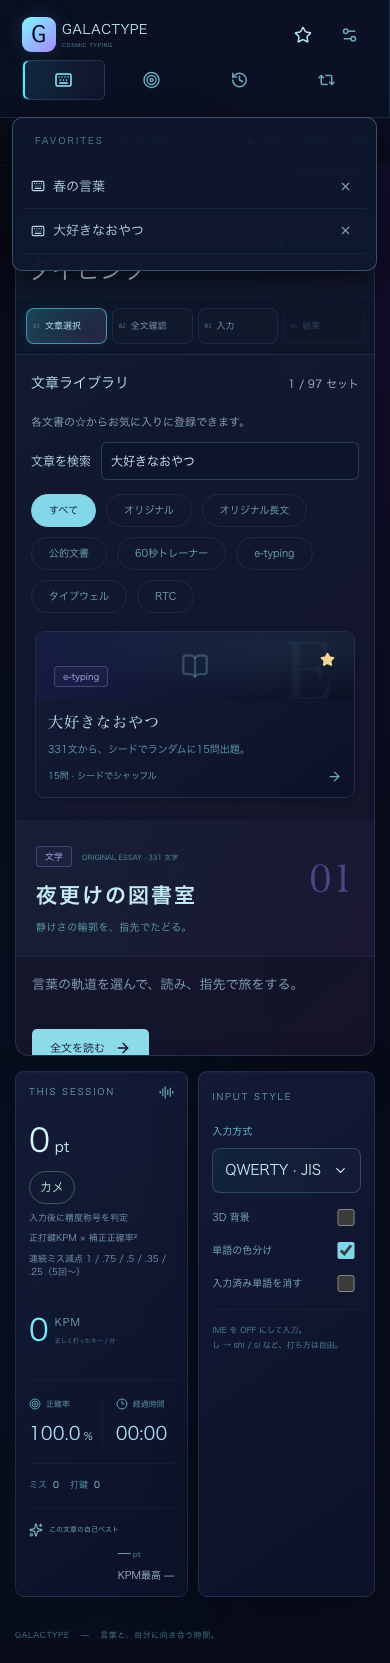
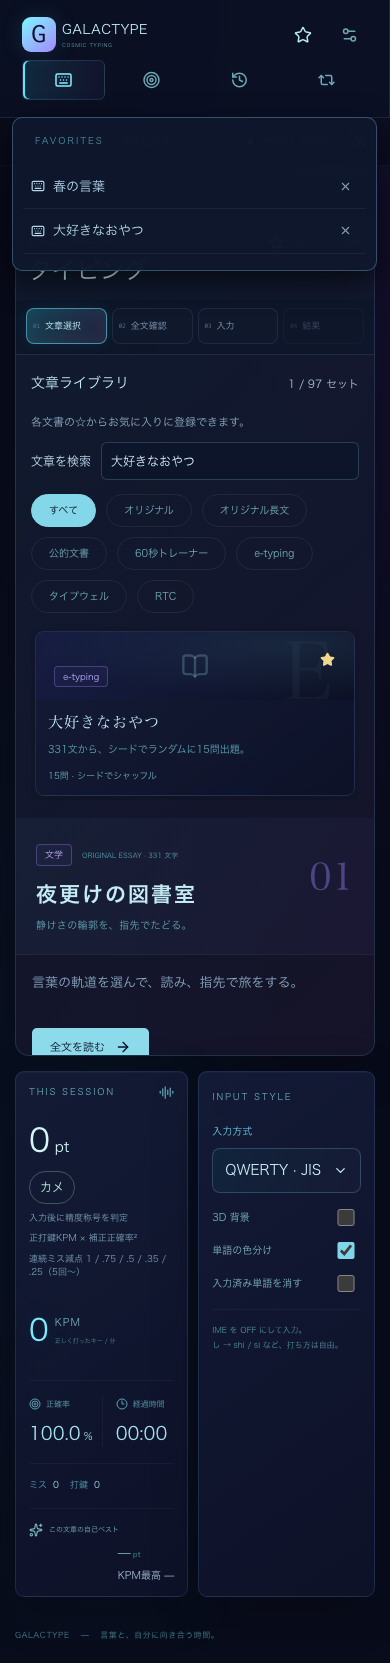
fix: open practice favorites in preview with active navigation

diff --git a/src/app/App.tsx b/src/app/App.tsx
@@ -12,7 +12,7 @@ import { useSettings } from '../features/settings/useSettings'
 import { AppShell } from './AppShell'
 import type { AppTab } from './AppShell'
 import './App.css'
-import type { Favorite } from '../domain/records/favorites'
+import { favoriteKey, type Favorite } from '../domain/records/favorites'
 import { useFavorites } from '../features/favorites/useFavorites'
 import { FavoritesSidebar } from '../features/favorites/FavoritesSidebar'
 
@@ -37,12 +37,27 @@ export default function App() {
   const history = useHistory(setNotice)
   const session = usePracticeSession(settings, history.persistResult, setNotice)
   const favorites = useFavorites(setNotice)
+  const [favoriteNavigation, setFavoriteNavigation] = useState<string | null>(
+    null,
+  )
+  const activeFavoriteKey = favorites.items.some(
+    (favorite) =>
+      favoriteKey(favorite) === favoriteNavigation &&
+      (favorite.kind === 'practice'
+        ? tab === 'practice' &&
+          session.selected === favorite.passageId &&
+          settings.layout === favorite.layout
+        : tab === 'battle'),
+  )
+    ? favoriteNavigation
+    : null
   const practiceFavorite = (passageId: string): Favorite => ({
     kind: 'practice',
     passageId,
     layout: settings.layout,
   })
   const navigate = (next: AppTab) => {
+    setFavoriteNavigation(null)
     if (tab === 'practice' && next !== 'practice')
       session.reset(session.selected, settings.layout, 0)
     if (next !== 'battle') setCpuFavorite(null)
@@ -60,12 +75,14 @@ export default function App() {
       setCpuRequest((value) => value + 1)
       navigate('battle')
     }
+    setFavoriteNavigation(favoriteKey(favorite))
   }
 
   return (
     <AppShell
       settings={settings}
       tab={tab}
+      favoriteActive={activeFavoriteKey !== null}
       onNavigate={navigate}
       onSettings={() => setSettingsDialog('open')}
       mistake={
@@ -75,6 +92,7 @@ export default function App() {
       favorites={
         <FavoritesSidebar
           items={favorites.items}
+          activeKey={activeFavoriteKey}
           onSelect={openFavorite}
           onRemove={favorites.remove}
         />

diff --git a/e2e/favorites-regression.spec.ts b/e2e/favorites-regression.spec.ts
@@ -160,6 +160,45 @@ for (const width of [1440, 390]) {
         () => document.documentElement.scrollWidth <= innerWidth,
       ),
     ).toBe(true)
+    await page.getByRole('button', { name: 'CPU対戦', exact: true }).click()
+    if (width === 390) await toggle.click()
+    await menu
+      .getByRole('button', { name: /お気に入りを開く：タイピング · 春の言葉/ })
+      .click()
+    await expect(page.locator('.mission-carousel')).toHaveAttribute(
+      'data-stage',
+      '1',
+    )
+    await expect(
+      page.getByRole('button', { name: '全文確認へ', exact: true }),
+    ).toHaveAttribute('aria-current', 'step')
+    await expect(page.locator('#passage-full-text li')).toHaveCount(15)
+    await expect(page.locator('.favorite-open.active')).toHaveAttribute(
+      'aria-current',
+      'page',
+    )
+    await expect(page.locator('.favorite-open.active')).toContainText(
+      '春の言葉',
+    )
+    await expect(
+      page.getByRole('button', { name: 'タイピング', exact: true }),
+    ).not.toHaveClass(/active/)
+    if (width === 390) await toggle.click()
+    await page.screenshot({
+      path: `artifacts/favorites-preview-${width}.png`,
+      fullPage: true,
+      animations: 'disabled',
+    })
+    if (width === 390) await page.keyboard.press('Escape')
+    await page.getByRole('button', { name: '文章選択へ', exact: true }).click()
+    await expect(
+      page.getByRole('button', { name: '春の言葉', exact: true }),
+    ).toHaveAttribute('aria-pressed', 'true')
+    await page.getByRole('button', { name: 'タイピング', exact: true }).click()
+    await expect(
+      page.getByRole('button', { name: 'タイピング', exact: true }),
+    ).toHaveClass(/active/)
+    await expect(page.locator('.favorite-open.active')).toHaveCount(0)
     expect(errors).toEqual([])
   })
 }

diff --git a/src/app/AppShell.tsx b/src/app/AppShell.tsx
@@ -17,6 +17,7 @@ const SpaceScene = lazy(() =>
 export function AppShell({
   settings,
   tab,
+  favoriteActive,
   onNavigate,
   onSettings,
   mistake,
@@ -27,6 +28,7 @@ export function AppShell({
 }: {
   settings: Settings
   tab: AppTab
+  favoriteActive: boolean
   onNavigate: (tab: AppTab) => void
   onSettings: () => void
   mistake: boolean
@@ -81,14 +83,17 @@ export function AppShell({
             return (
               <button
                 key={String(id)}
-                className={`nav-item ${tab === id ? 'active' : ''}`}
+                className={`nav-item ${tab === id && !favoriteActive ? 'active' : ''}`}
+                aria-current={
+                  tab === id && !favoriteActive ? 'page' : undefined
+                }
                 onClick={() => {
                   onNavigate(String(id) as AppTab)
                 }}
               >
                 <I size={18} />
                 {String(label)}
-                {tab === id && <span className="nav-dot" />}
+                {tab === id && !favoriteActive && <span className="nav-dot" />}
               </button>
             )
           })}

diff --git a/e2e/favorites-rtc-ui.spec.ts b/e2e/favorites-rtc-ui.spec.ts
@@ -98,7 +98,7 @@ for (const width of [1440, 390]) {
       .click()
     await expect(page.locator('.mission-carousel')).toHaveAttribute(
       'data-stage',
-      '0',
+      '1',
     )
     await expect(
       page.getByLabel('シードを固定する', { exact: true }),
@@ -106,6 +106,10 @@ for (const width of [1440, 390]) {
     await expect(
       page.getByRole('combobox', { name: '入力方式', exact: true }),
     ).toHaveAttribute('data-value', 'colemak')
+    await expect(
+      page.getByRole('button', { name: '全文確認へ', exact: true }),
+    ).toHaveAttribute('aria-current', 'step')
+    await expect(page.locator('#passage-full-text li')).toHaveCount(15)
     const firstSeed = await page
       .getByLabel('出題シード', { exact: true })
       .inputValue()
@@ -261,7 +265,7 @@ test('favorites keyboard activation takes priority over paused game shortcuts; s
   await page.keyboard.press('Enter')
   await expect(page.locator('.mission-carousel')).toHaveAttribute(
     'data-stage',
-    '0',
+    '1',
   )
   await page
     .getByRole('button', { name: 'お気に入りを解除', exact: true })

diff --git a/src/features/favorites/FavoritesSidebar.tsx b/src/features/favorites/FavoritesSidebar.tsx
@@ -7,10 +7,12 @@ import { layoutLabels } from '../../domain/typing/engine'
 
 export function FavoritesSidebar({
   items,
+  activeKey,
   onSelect,
   onRemove,
 }: {
   items: Favorite[]
+  activeKey: string | null
   onSelect: (favorite: Favorite) => void
   onRemove: (favorite: Favorite) => void
 }) {
@@ -72,7 +74,10 @@ export function FavoritesSidebar({
               return (
                 <li key={favoriteKey(favorite)}>
                   <button
-                    className="favorite-open"
+                    className={`favorite-open ${favoriteKey(favorite) === activeKey ? 'active' : ''}`}
+                    aria-current={
+                      favoriteKey(favorite) === activeKey ? 'page' : undefined
+                    }
                     aria-label={`お気に入りを開く：${label}`}
                     onClick={() => {
                       onSelect(favorite)

diff --git a/src/features/library/PassageLibrary.tsx b/src/features/library/PassageLibrary.tsx
@@ -1,6 +1,6 @@
 import { libraryCategory } from './libraryCategories'
 import { useMemo, useState } from 'react'
-import { BookOpen, ArrowRight } from 'lucide-react'
+import { BookOpen } from 'lucide-react'
 import type { Passage } from '../../domain/content/passages'
 import { isTypewell } from '../../domain/content/typewell'
 import { isRtc } from '../../domain/content/rtcWords'
@@ -111,7 +111,6 @@ export function PassageLibrary({
                                 ? '15問 · シードでシャッフル'
                                 : `${p.paragraphs.reduce((n, row) => n + row.text.length, 0)} 文字`}
                 </span>
-                <ArrowRight size={15} />
               </div>
             </button>
             <FavoriteButton

diff --git a/src/app/App.css b/src/app/App.css
@@ -57,7 +57,8 @@
   text-align: left;
   margin-bottom: 7px;
 }
-.nav-item.active {
+.nav-item.active,
+.favorite-open.active {
   background: #8bd9ea12;
   color: #99deed;
 }
@@ -1068,7 +1069,8 @@ td small {
   color: #10112b;
   box-shadow: 0 0 25px #53eaff20;
 }
-.nav-item.active {
+.nav-item.active,
+.favorite-open.active {
   background: linear-gradient(90deg, #41dfff20, #ad70ff0c);
   color: #8cefff;
   box-shadow: inset 2px 0 #5fe6ff;
@@ -4297,6 +4299,7 @@ rt {
   padding: 10px 6px;
   text-align: left;
   color: #b5d7e9;
+  border-radius: 6px;
 }
 .favorite-open > svg {
   flex-shrink: 0;

diff --git a/src/features/practice/usePracticeSession.ts b/src/features/practice/usePracticeSession.ts
@@ -437,7 +437,7 @@ export function usePracticeSession(
     setFixedSeed,
     openRandomDocument: (id: string, layout: Layout) => {
       setFixedSeed(false)
-      reset(id, layout, 0, freshSeed(), 2)
+      reset(id, layout, 1, freshSeed(), 2)
     },
     startPreview: () => {
       setPracticeStage(2)

diff --git a/README.md b/README.md
@@ -113,12 +113,14 @@ python3 -m unittest discover -s scripts -p 'test_*.py'
 
 タイピングは**文章ライブラリの各文書カード右上の☆**から直接登録・解除できます。文書を先に選ぶ必要はなく、☆を押しても現在の文書・出題は切り替わりません。画面上部の「タイピング」右側とCPU対戦の「お気に入りに登録」（☆）からも登録できます。左サイドバーはWORKSPACEの下を線で区切り、同じスタイルの **FAVORITES** 見出しで一覧を表示します。項目には配列名を表示せず、選ぶと保存した文書・入力方式・対戦設定を呼び出せます。旧YOUR OWN PACEとキャッチフレーズは削除しています。モバイルでは上部の☆ボタンから一覧を開きます。
 
-- **タイピング**：文書と入力方式を保存し、呼び出すと文章選択から開始します。オリジナル長文・RTC・e-typing・タイプウェル・60秒トレーナーなど、すべての文章セットを登録できます。
+- **タイピング**：文書と入力方式を保存し、呼び出すと全文確認を直接開きます。全文確認のステップと、サイドバーの開いたお気に入り項目をハイライトします。オリジナル長文・RTC・e-typing・タイプウェル・60秒トレーナーなど、すべての文章セットを登録できます。
 - **CPU対戦**：文章セット・入力方式・CPU速度・反応時間・一定速度／イーズインを保存し、呼び出すとその設定画面を表示します。対戦中に別のお気に入りを選ぶと、現在の対戦を取り消して設定を切り替えます。
 - **シード**：お気に入りには保存せず、呼び出しのたびに新しいシードを作り、固定チェックを解除します。固定シードで練習していた場合もランダムへ戻ります。保存記録からの「シードを再現」は従来どおり固定した同じ出題を再現します。
 - 同じ条件は重複登録しません。登録済みの☆または一覧の×から解除できます。ブラウザに保存し、再読込や画面移動でも保持します。保存が拒否された場合は通知し、その画面ではメモリ内のお気に入りを利用できます。
 
-[デスクトップのお気に入り](docs/favorites-desktop.png) · [モバイルのお気に入り](docs/favorites-mobile.png)
+[文書カードから登録（PC）](docs/favorites-desktop.png) · [モバイル](docs/favorites-mobile.png)
+
+[お気に入りから全文確認（PC）](docs/favorites-preview-desktop.png) · [モバイル](docs/favorites-preview-mobile.png)
 
 ## RTCオリジナル
 
